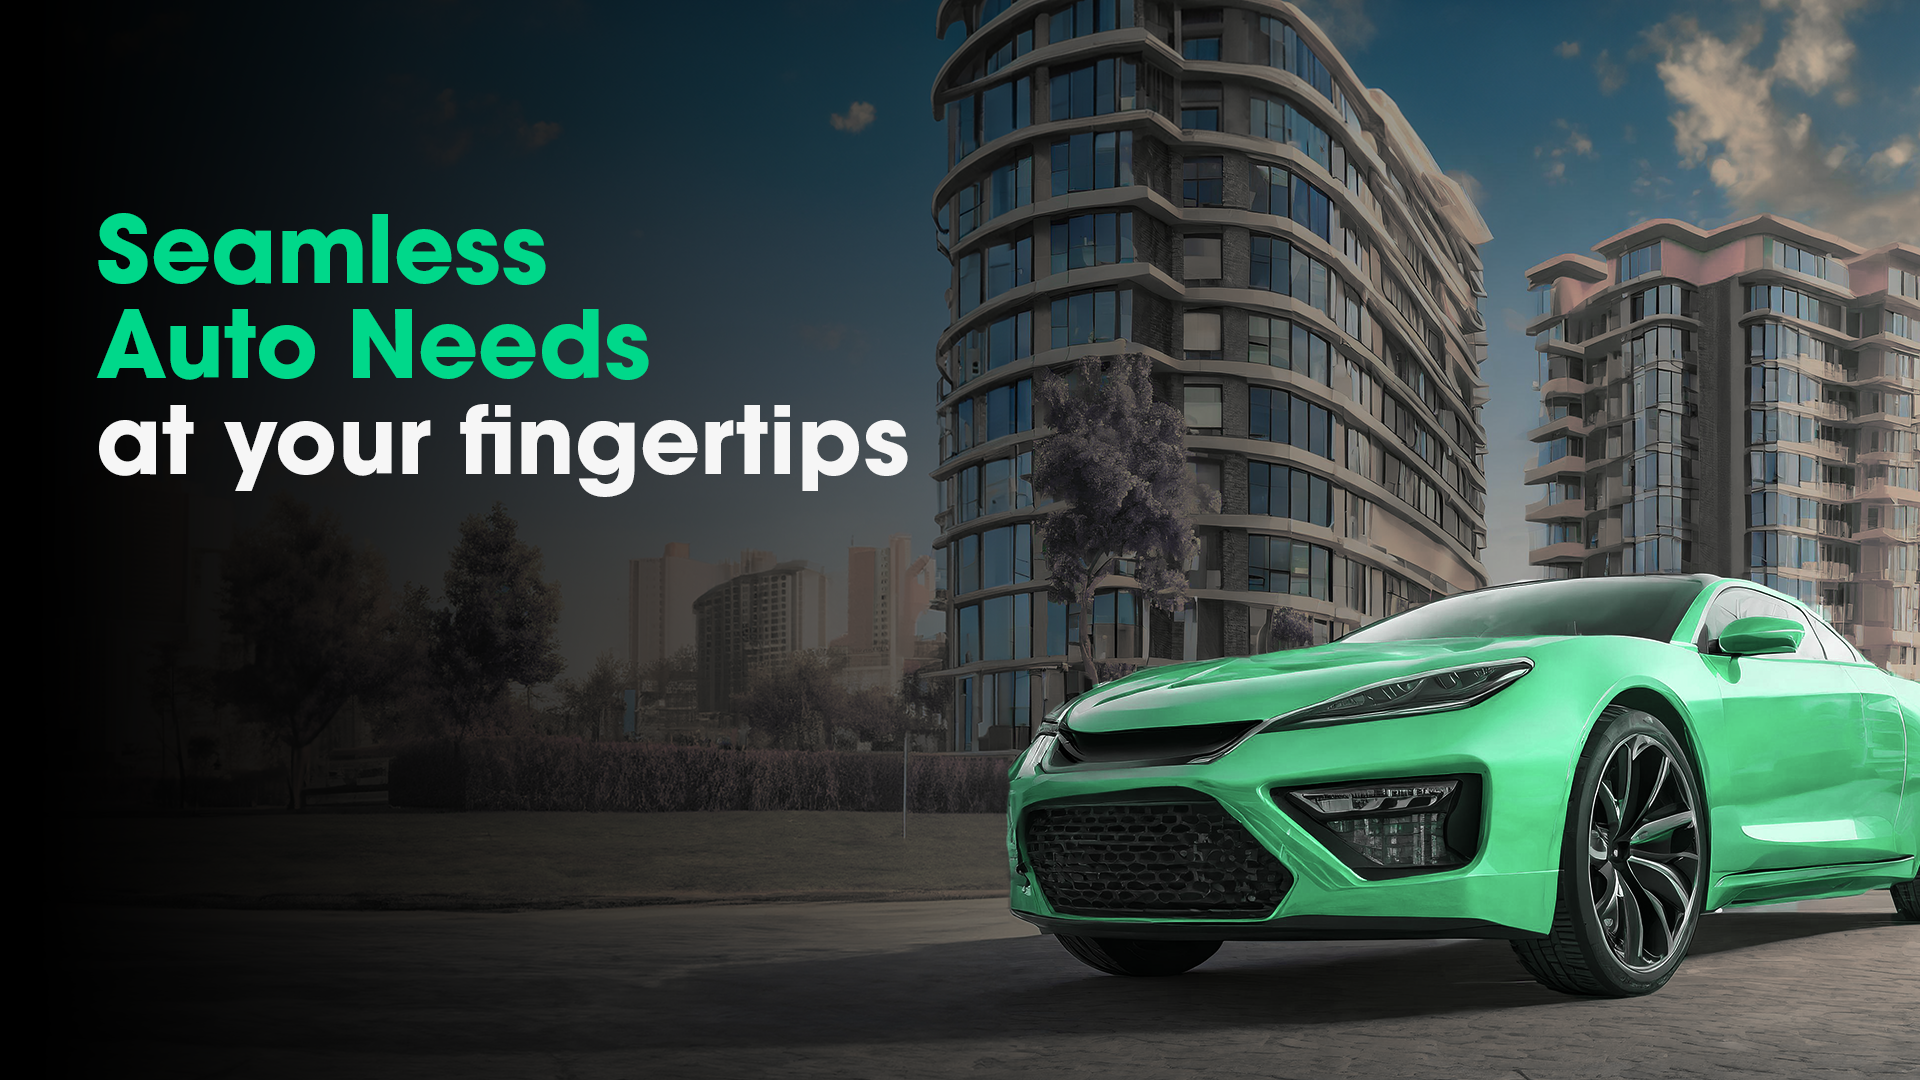
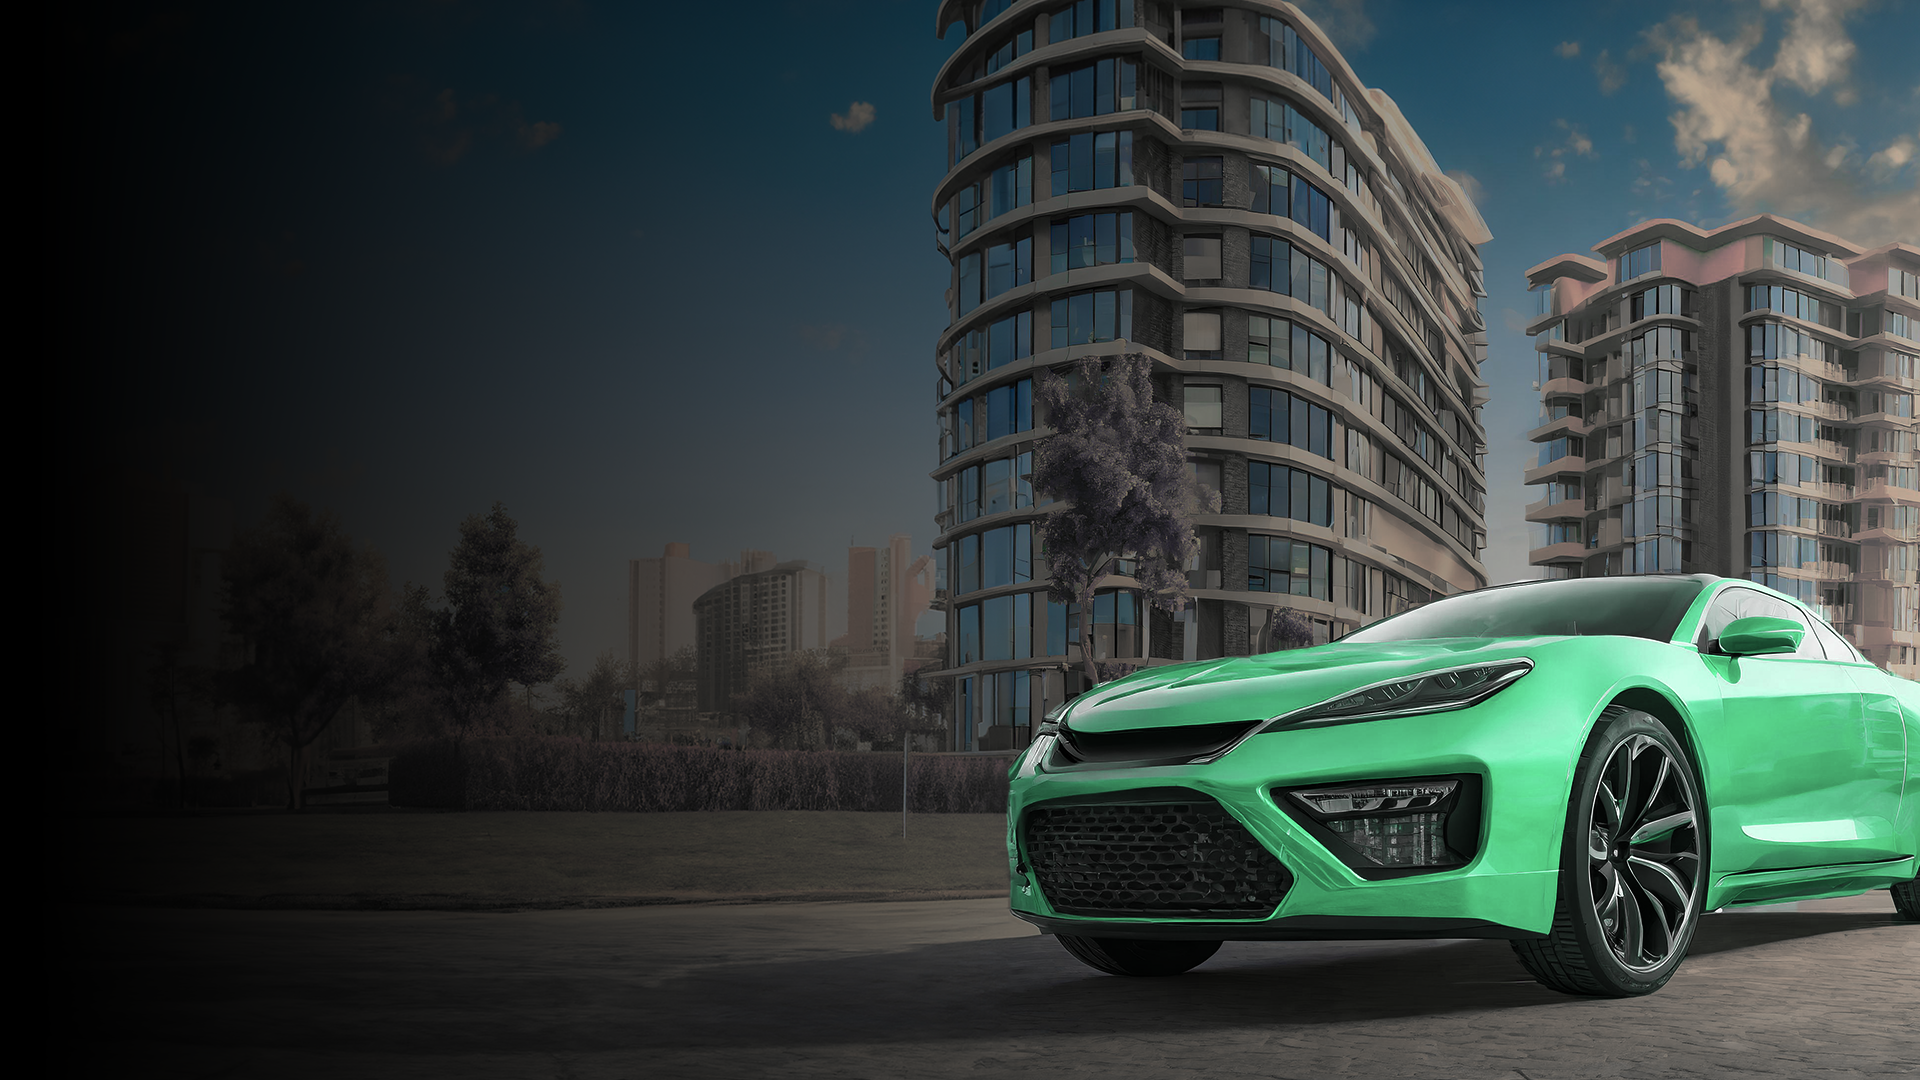
skeleton pages added

Changed region(s): [[0.0312, 0.1833, 0.4688, 0.4583]]

diff --git a/src/components/ui/animatedGridPattern.tsx b/src/components/ui/animatedGridPattern.tsx
@@ -1,0 +1,154 @@
+"use client";
+
+import { motion } from "motion/react";
+import {
+  ComponentPropsWithoutRef,
+  useEffect,
+  useId,
+  useRef,
+  useState,
+} from "react";
+
+import { cn } from "@/lib/utils";
+
+export interface AnimatedGridPatternProps
+  extends ComponentPropsWithoutRef<"svg"> {
+  width?: number;
+  height?: number;
+  x?: number;
+  y?: number;
+  strokeDasharray?: any;
+  numSquares?: number;
+  maxOpacity?: number;
+  duration?: number;
+  repeatDelay?: number;
+}
+
+export function AnimatedGridPattern({
+  width = 40,
+  height = 40,
+  x = -1,
+  y = -1,
+  strokeDasharray = 0,
+  numSquares = 50,
+  className,
+  maxOpacity = 0.5,
+  duration = 4,
+  repeatDelay = 0.5,
+  ...props
+}: AnimatedGridPatternProps) {
+  const id = useId();
+  const containerRef = useRef(null);
+  const [dimensions, setDimensions] = useState({ width: 0, height: 0 });
+  const [squares, setSquares] = useState(() => generateSquares(numSquares));
+
+  function getPos() {
+    return [
+      Math.floor((Math.random() * dimensions.width) / width),
+      Math.floor((Math.random() * dimensions.height) / height),
+    ];
+  }
+
+  // Adjust the generateSquares function to return objects with an id, x, and y
+  function generateSquares(count: number) {
+    return Array.from({ length: count }, (_, i) => ({
+      id: i,
+      pos: getPos(),
+    }));
+  }
+
+  // Function to update a single square's position
+  const updateSquarePosition = (id: number) => {
+    setSquares((currentSquares) =>
+      currentSquares.map((sq) =>
+        sq.id === id
+          ? {
+              ...sq,
+              pos: getPos(),
+            }
+          : sq
+      )
+    );
+  };
+
+  // Update squares to animate in
+  useEffect(() => {
+    if (dimensions.width && dimensions.height) {
+      setSquares(generateSquares(numSquares));
+    }
+  }, [dimensions, numSquares]);
+
+  // Resize observer to update container dimensions
+  useEffect(() => {
+    const resizeObserver = new ResizeObserver((entries) => {
+      for (let entry of entries) {
+        setDimensions({
+          width: entry.contentRect.width,
+          height: entry.contentRect.height,
+        });
+      }
+    });
+
+    if (containerRef.current) {
+      resizeObserver.observe(containerRef.current);
+    }
+
+    return () => {
+      if (containerRef.current) {
+        resizeObserver.unobserve(containerRef.current);
+      }
+    };
+  }, [containerRef]);
+
+  return (
+    <svg
+      ref={containerRef}
+      aria-hidden="true"
+      className={cn(
+        "pointer-events-none absolute inset-0 h-full w-full fill-gray-400/30 stroke-gray-400/30",
+        className
+      )}
+      {...props}
+    >
+      <defs>
+        <pattern
+          id={id}
+          width={width}
+          height={height}
+          patternUnits="userSpaceOnUse"
+          x={x}
+          y={y}
+        >
+          <path
+            d={`M.5 ${height}V.5H${width}`}
+            fill="none"
+            strokeDasharray={strokeDasharray}
+          />
+        </pattern>
+      </defs>
+      <rect width="100%" height="100%" fill={`url(#${id})`} />
+      <svg x={x} y={y} className="overflow-visible">
+        {squares.map(({ pos: [x, y], id }, index) => (
+          <motion.rect
+            initial={{ opacity: 0 }}
+            animate={{ opacity: maxOpacity }}
+            transition={{
+              duration,
+              repeat: 1,
+              delay: index * 0.1,
+              repeatType: "reverse",
+            }}
+            onAnimationComplete={() => updateSquarePosition(id)}
+            key={`${x}-${y}-${index}`}
+            width={width - 1}
+            height={height - 1}
+            x={x * width + 1}
+            y={y * height + 1}
+            fill="currentColor"
+            strokeWidth="0"
+          />
+        ))}
+      </svg>
+    </svg>
+  );
+}

diff --git a/src/app/contact/page.tsx b/src/app/contact/page.tsx
@@ -1,0 +1,9 @@
+import { AnimatedGridPattern } from "@/components/ui/animatedGridPattern";
+
+export default function ContactPage() {
+  return (
+    <div>
+      <AnimatedGridPattern />
+    </div>
+  );
+}

diff --git a/src/app/products/page.tsx b/src/app/products/page.tsx
@@ -1,0 +1,1 @@
+export default function ProductsPage() {}

diff --git a/src/app/about/page.tsx b/src/app/about/page.tsx
@@ -1,0 +1,1 @@
+export default function AboutPage() {}
